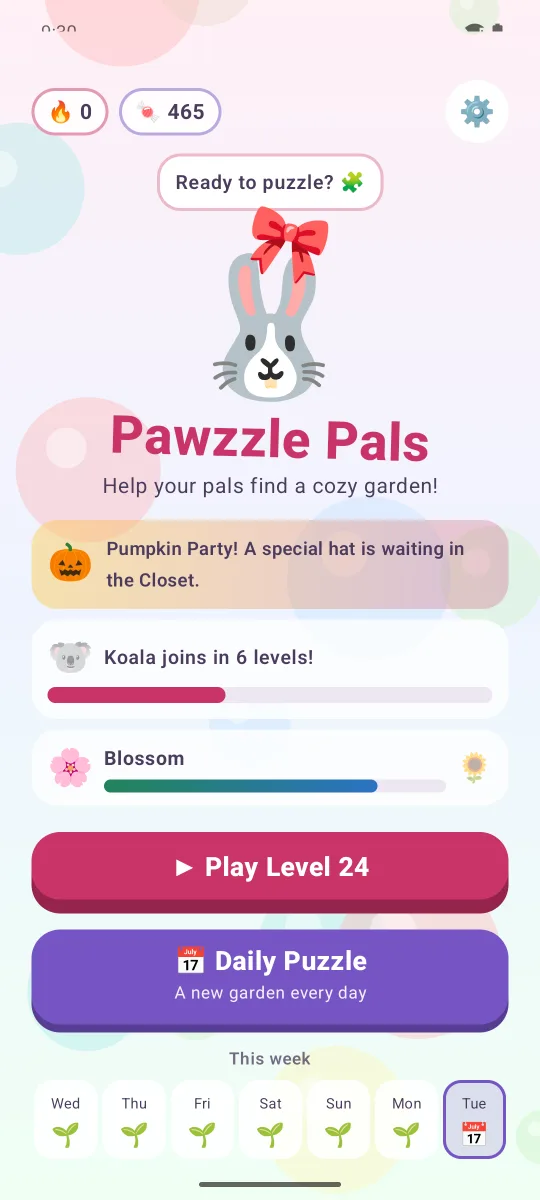
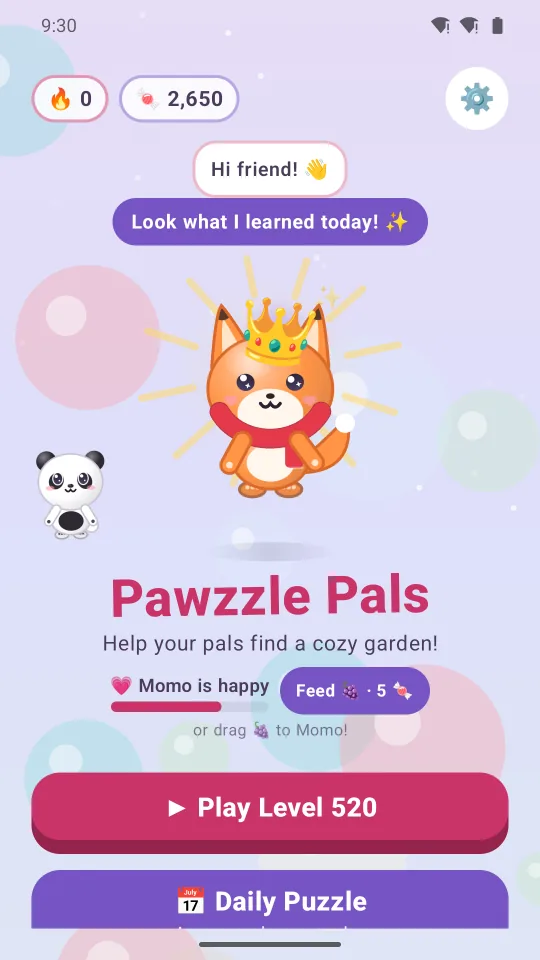
Update Pawzzle Pals screenshots for 1.0.0

diff --git a/apps/pawzzle-pals/index.html b/apps/pawzzle-pals/index.html
@@ -44,14 +44,14 @@
   <h2 id="screens-title">Screenshots</h2>
   <!-- Scrolls sideways on small screens. Give every image a meaningful alt text. -->
   <ul class="screens" aria-labelledby="screens-title">
-    <li><img src="img/screens/01-home.webp" width="540" height="1200" loading="lazy" alt="Home screen with Bunny wearing a red bow, a Play Level 24 button, a Daily Puzzle button and this week's streak"></li>
-    <li><img src="img/screens/02-boss.webp" width="540" height="1200" loading="lazy" alt="Level 20 boss garden: a 6 by 6 board of coloured gardens with rocks, crosses and one bunny placed, with Mark and Place buttons"></li>
-    <li><img src="img/screens/03-win.webp" width="540" height="1200" loading="lazy" alt="Hop-tastic! win screen with three stars, plus 15 treats, a completed mission and two new stickers"></li>
-    <li><img src="img/screens/04-garden.webp" width="540" height="1200" loading="lazy" alt="My Garden: a decorated garden with a rainbow, trees, a house and pals, above a list of decorations to buy with treats"></li>
-    <li><img src="img/screens/05-levels.webp" width="540" height="1200" loading="lazy" alt="All Levels: World 1 Sunny Meadow with all 20 levels earning stars, and World 2 Bamboo Grove partly unlocked"></li>
-    <li><img src="img/screens/06-chest.webp" width="540" height="1200" loading="lazy" alt="A treasure chest pops open with confetti and gives 30 treats"></li>
-    <li><img src="img/screens/07-story.webp" width="540" height="1200" loading="lazy" alt="Storybook Chapter 1, Sunny Meadow: Bunny wants every friend to have a cozy spot for a nap"></li>
-    <li><img src="img/screens/08-weekly.webp" width="540" height="1200" loading="lazy" alt="Weekly Path: five gardens in a row, two done, Bunny on step 3, with a bonus of 60 treats for finishing all five"></li>
+    <li><img src="img/screens/01-home.webp" width="540" height="960" loading="lazy" alt="Home screen: Momo the fox, wearing a crown and a red scarf, waves while Panda peeks in. A Feed button, Play Level 520 and the Daily Puzzle."></li>
+    <li><img src="img/screens/02-level.webp" width="540" height="960" loading="lazy" alt="Level 150, a 9 by 9 Golden Garden. Momo explains a hint: this garden only fits in one column, so the rest of that column is taken."></li>
+    <li><img src="img/screens/03-pals.webp" width="540" height="960" loading="lazy" alt="All 50 pals together, from a giraffe, jellyfish and flamingo to a bat, peacock, lion and unicorn."></li>
+    <li><img src="img/screens/04-book.webp" width="540" height="960" loading="lazy" alt="The Pal Book page for Fox, Common, personality Curious, with stamps for its favourite snack (grapes), signature dance, secret move and best friends, and a Page done reward."></li>
+    <li><img src="img/screens/05-hide.webp" width="540" height="960" loading="lazy" alt="Hide and Seek: Where is Momo hiding? Momo peeks out from behind a tulip among a tree, a mushroom, a house, a sunflower and a pine tree."></li>
+    <li><img src="img/screens/06-garden.webp" width="540" height="960" loading="lazy" alt="My Garden full of pals under a rainbow, with a castle, a balloon and butterflies, and decorations to buy with treats."></li>
+    <li><img src="img/screens/07-closet.webp" width="540" height="960" loading="lazy" alt="The Pal Closet: Momo in a crown and scarf, with hats to choose such as a bow, a flower, a star clip, cherries, a cap, a sunflower and a seasonal pumpkin hat."></li>
+    <li><img src="img/screens/08-band.webp" width="540" height="960" loading="lazy" alt="The Music Box: Momo plays along on colourful xylophone keys, with Pal songs, 28 of 50 collected, and the Pal band."></li>
   </ul>
 
   <h2>About the game</h2>
